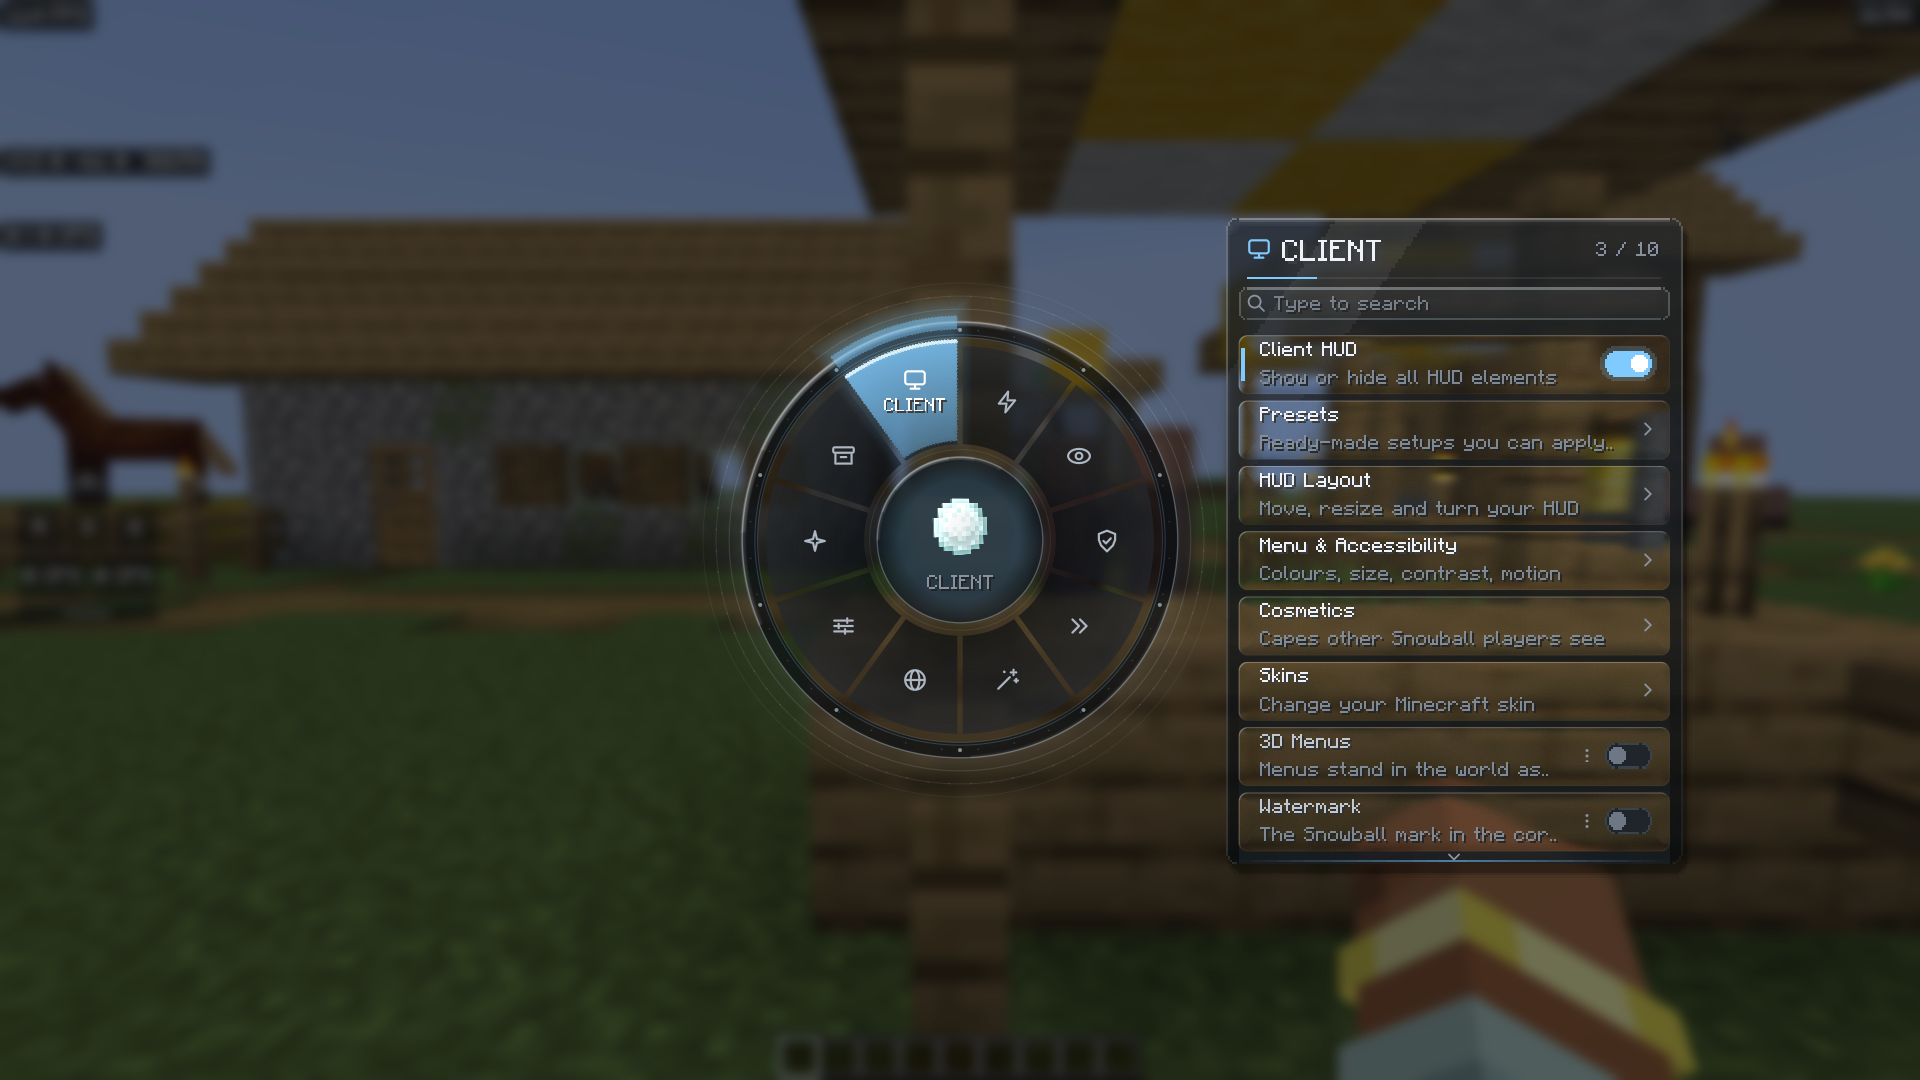
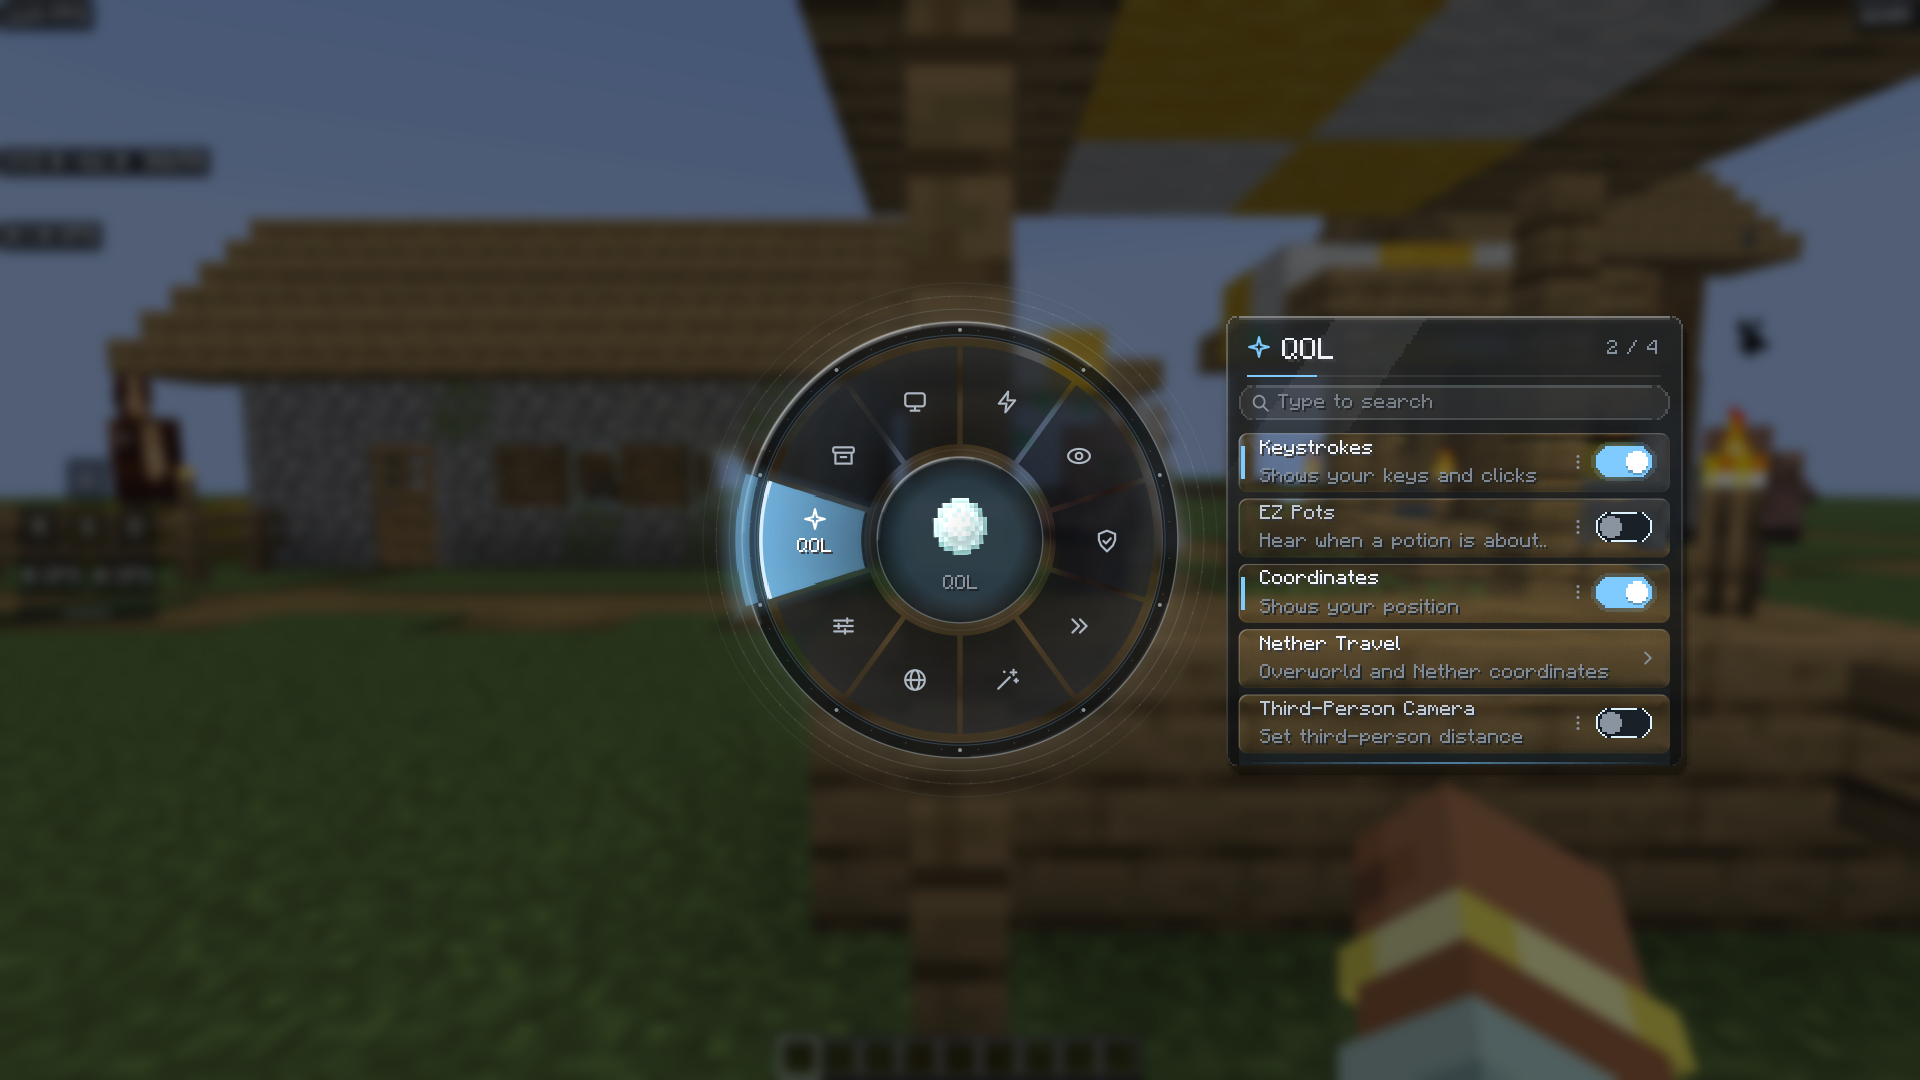
Snowglass M4: the wheel menu restyled in place
Module rows get the M3 switch on a liquid spring and the focus ring;
statuses become pills; search is a capsule under the glass looks; the
FPS BOOST selection glides between its cards; the arrows become a slim
scrollbar; the menu opens and closes on springs. The wheel, palettes
and 3D Menus are unchanged. The Snowglass game test also photographs
FPS BOOST, a search, keyboard focus, and 720p and 1440p windows.

diff --git a/client/src/main/java/dev/snowballclient/client/gui/RadialMenuView.java b/client/src/main/java/dev/snowballclient/client/gui/RadialMenuView.java
@@ -3,12 +3,15 @@ package dev.snowballclient.client.gui;
 import dev.snowballclient.client.SnowballClient;
 import dev.snowballclient.client.gui.anim.FrameClock;
 import dev.snowballclient.client.gui.anim.Smoothed;
+import dev.snowballclient.client.gui.anim.Spring;
 import dev.snowballclient.client.gui.icons.Icons;
 import dev.snowballclient.client.gui.icons.LineIcon;
 import dev.snowballclient.client.gui.radial.RadialLayout;
 import dev.snowballclient.client.gui.radial.RadialMetrics;
 import dev.snowballclient.client.gui.radial.WheelGeometry;
 import dev.snowballclient.client.gui.radial.WheelTextures;
+import dev.snowballclient.client.gui.snowglass.Controls;
+import dev.snowballclient.client.gui.snowglass.SnowglassTokens;
 import dev.snowballclient.client.gui.theme.Theme;
 import dev.snowballclient.client.hud.GuiDraw;
 import dev.snowballclient.client.hud.NotificationCenter;
@@ -70,11 +73,15 @@ public final class RadialMenuView extends View {
 	private final RadialLayout layout;
 	private final ModuleCategory[] categories = ModuleCategory.values();
 	private final FrameClock clock = new FrameClock();
-	private final Smoothed open = new Smoothed(0f);
-	private final Smoothed panel = new Smoothed(0f);
+	private final Spring open = Spring.standard(0f);
+	private final Spring panel = Spring.standard(0f);
 	private final Smoothed[] segmentHover = new Smoothed[ModuleCategory.values().length];
 	private final Smoothed[] segmentSelect = new Smoothed[ModuleCategory.values().length];
-	private final Map<Module, Smoothed> toggleAnim = new IdentityHashMap<>();
+	private final Map<Module, Spring> toggleAnim = new IdentityHashMap<>();
+	/** Where the FPS BOOST selection is, in units from the first card: it glides to the card picked. */
+	private final Spring cardX = Spring.liquid(0f);
+	private final Spring cardY = Spring.liquid(0f);
+	private boolean cardPlaced;
 	private final Map<Module, FittedRow> fitted = new IdentityHashMap<>();
 	private final String[] cardBlurbs = new String[CARDS.length];
 	private final Map<Long, Float> labelRooms = new HashMap<>();
@@ -260,7 +267,7 @@ public final class RadialMenuView extends View {
 		boolean still = theme.motion() <= 0f;
 		age = still ? 10f : age + dt * theme.motion();
 		panelAge = still ? 10f : panelAge + dt * theme.motion();
-		float o = open.update(dt, speed);
+		float o = clamp01(step(open, dt));
 		// The wheel turns into place as it opens, and back out as it closes.
 		float settle = 1f - o;
 		spin = -0.55f * settle * settle;
@@ -269,7 +276,7 @@ public final class RadialMenuView extends View {
 			host.back();
 			return;
 		}
-		float p = panel.update(dt, speed);
+		float p = clamp01(step(panel, dt));
 		if (!closing) updateHover(mouseX, mouseY);
 		for (int i = 0; i < segmentHover.length; i++) {
 			segmentHover[i].setTarget(i == hoveredSegment ? 1f : 0f);
@@ -431,6 +438,7 @@ public final class RadialMenuView extends View {
 		drawHeader(c, x, top, rows, alpha);
 		drawSearch(c, x, top + HEADER_H, alpha);
 		if (showCards()) drawCards(c, x, top + HEADER_H + SEARCH_H, alpha);
+		else cardPlaced = false;
 
 		int y0 = top + rowsOffset();
 		if (rows.isEmpty()) {
@@ -468,9 +476,7 @@ public final class RadialMenuView extends View {
 			int shift = Math.round((1f - easeOut(t)) * 12f);
 			drawRow(c, rows.get(i), i, x + ROW_INSET + shift, y0 + (i - scroll) * ROW_H, PANEL_W - ROW_INSET * 2, alpha * t);
 		}
-		int arrow = scaleAlpha(theme.mutedText(), alpha);
-		if (scroll > 0) triangle(c, x + PANEL_W / 2, y0 - 3, true, arrow);
-		if (end < rows.size()) triangle(c, x + PANEL_W / 2, y0 + visible * ROW_H - 2, false, arrow);
+		Controls.scrollbar(c, theme, x + PANEL_W - 5, y0, visible * ROW_H - 3, scroll, visible, rows.size(), false, alpha);
 	}
 
 	private void drawHeader(Canvas c, int x, int top, List<Module> rows, float alpha) {
@@ -505,13 +511,24 @@ public final class RadialMenuView extends View {
 		int bx = x + ROW_INSET;
 		int bw = PANEL_W - ROW_INSET * 2;
 		int by = y + 2;
-		int bh = 15;
 		boolean active = searching();
-		Glass.chip(c, theme, bx, by, bw, bh, 4, active ? 0.45f : 0f, alpha);
-		GuiDraw.roundedOutline(c, bx, by, bw, bh, 4, scaleAlpha(active ? theme.accent() : theme.border(), alpha));
-		magnifier(c, bx + 8, by + 7, scaleAlpha(active ? theme.accent() : theme.mutedText(), alpha));
-		int tx = bx + 16;
-		int ty = by + 4;
+		int bh;
+		int tx;
+		if (theme.glass()) {
+			// A capsule, like the settings pages' text boxes; it lights in the menu colour while searching.
+			bh = Controls.CONTROL_H;
+			GuiDraw.roundedRect(c, bx, by, bw, bh, bh / 2, scaleAlpha(Theme.withAlpha(0xFFFFFFFF, active ? 0.10f : 0.06f), alpha));
+			GuiDraw.roundedOutline(c, bx, by, bw, bh, bh / 2, scaleAlpha(active ? theme.accent() : SnowglassTokens.HAIRLINE_STRONG, alpha));
+			magnifier(c, bx + 10, by + 8, scaleAlpha(active ? theme.accent() : theme.mutedText(), alpha));
+			tx = bx + 18;
+		} else {
+			bh = 15;
+			Glass.chip(c, theme, bx, by, bw, bh, 4, active ? 0.45f : 0f, alpha);
+			GuiDraw.roundedOutline(c, bx, by, bw, bh, 4, scaleAlpha(active ? theme.accent() : theme.border(), alpha));
+			magnifier(c, bx + 8, by + 7, scaleAlpha(active ? theme.accent() : theme.mutedText(), alpha));
+			tx = bx + 16;
+		}
+		int ty = by + (bh - 7) / 2;
 		if (active) {
 			String shown = query;
 			while (shown.length() > 1 && UiText.width(c, shown, UiText.DETAIL) > bw - 26) shown = shown.substring(1);
@@ -533,15 +550,37 @@ public final class RadialMenuView extends View {
 			cardProbe = textProbe;
 			for (int i = 0; i < CARDS.length; i++) cardBlurbs[i] = UiText.fit(c, FpsBoost.blurb(CARDS[i]), UiText.DETAIL, cw - 12);
 		}
+		int picked = 0;
+		for (int i = 0; i < CARDS.length; i++) {
+			if (CARDS[i].equals(chosen)) picked = i;
+			int cx = x + ROW_INSET + (i % 2) * (cw + CARD_GAP);
+			int cy = y + 2 + (i / 2) * (CARD_H + CARD_GAP);
+			boolean hover = i == hoveredCard;
+			Glass.chip(c, theme, cx, cy, cw, CARD_H, 4, hover ? 1f : 0f, alpha);
+			GuiDraw.roundedOutline(c, cx, cy, cw, CARD_H, 4, scaleAlpha(hover ? Theme.withAlpha(theme.highlight(), 0.35f) : theme.border(), alpha));
+		}
+		// The selection glides to the card picked, stretching a little on the way, as the settings pages' choices do.
+		float tx = (picked % 2) * (cw + CARD_GAP);
+		float ty = (picked / 2) * (CARD_H + CARD_GAP);
+		if (!cardPlaced) {
+			cardX.snap(tx);
+			cardY.snap(ty);
+			cardPlaced = true;
+		}
+		cardX.setTarget(tx);
+		cardY.setTarget(ty);
+		float sx = step(cardX, lastDt);
+		float sy = step(cardY, lastDt);
+		int gw = Math.round(cw * cardX.stretch(0.12f, 400f));
+		int gh = Math.round(CARD_H * cardY.stretch(0.12f, 200f));
+		int gx = x + ROW_INSET + Math.round(sx) - (gw - cw) / 2;
+		int gy = y + 2 + Math.round(sy) - (gh - CARD_H) / 2;
+		GuiDraw.roundedRect(c, gx, gy, gw, gh, 4, scaleAlpha(Theme.withAlpha(theme.accent(), picked == hoveredCard ? 0.28f : 0.2f), alpha));
+		GuiDraw.roundedOutline(c, gx, gy, gw, gh, 4, scaleAlpha(theme.accent(), alpha));
 		for (int i = 0; i < CARDS.length; i++) {
 			int cx = x + ROW_INSET + (i % 2) * (cw + CARD_GAP);
 			int cy = y + 2 + (i / 2) * (CARD_H + CARD_GAP);
-			boolean sel = CARDS[i].equals(chosen);
-			boolean hover = i == hoveredCard;
-			int outline = sel ? theme.accent() : hover ? Theme.withAlpha(theme.highlight(), 0.35f) : theme.border();
-			if (sel) GuiDraw.roundedRect(c, cx, cy, cw, CARD_H, 4, scaleAlpha(Theme.withAlpha(theme.accent(), hover ? 0.28f : 0.2f), alpha));
-			else Glass.chip(c, theme, cx, cy, cw, CARD_H, 4, hover ? 1f : 0f, alpha);
-			GuiDraw.roundedOutline(c, cx, cy, cw, CARD_H, 4, scaleAlpha(outline, alpha));
+			boolean sel = i == picked;
 			int titleColor = sel ? theme.text() : Theme.lerpColor(theme.mutedText(), theme.text(), 0.65f);
 			UiText.draw(c, FpsBoost.label(CARDS[i]), UiText.UI, cx + 7, cy + 4, scaleAlpha(titleColor, alpha));
 			UiText.draw(c, cardBlurbs[i], UiText.DETAIL, cx + 7, cy + 17, scaleAlpha(theme.mutedText(), alpha));
@@ -557,7 +596,7 @@ public final class RadialMenuView extends View {
 		int rowH = ROW_H - 3;
 		boolean hover = index == hoveredRow;
 		boolean focus = index == focusedRow;
-		if (focus) GuiDraw.roundedOutline(c, rx, y, rw, rowH, 4, scaleAlpha(theme.accent(), alpha));
+		if (focus) Controls.focusRing(c, theme, rx, y, rw, rowH, 4, alpha);
 
 		AdvancedOptions advanced = m instanceof AdvancedOptions a ? a : null;
 		boolean active = m.isToggleable() && m.isEnabled();
@@ -570,11 +609,11 @@ public final class RadialMenuView extends View {
 			triangle(c, cursor - 3, cy - 1, advanced.expanded(), control);
 			cursor -= 12;
 		} else if (m.isToggleable()) {
-			cursor -= ToggleWidget.WIDTH;
-			Smoothed anim = toggleAnim.computeIfAbsent(m, k -> new Smoothed(k.isEnabled() ? 1f : 0f));
+			cursor -= Controls.SWITCH_W;
+			Spring anim = toggleAnim.computeIfAbsent(m, k -> Spring.liquid(k.isEnabled() ? 1f : 0f));
 			anim.setTarget(m.isEnabled() ? 1f : 0f);
-			float t = anim.update(lastDt, theme.motion() * 18f);
-			ToggleWidget.draw(c, cursor, cy - ToggleWidget.HEIGHT / 2, t, theme, alpha * (m.canToggle() ? 1f : 0.35f));
+			float t = step(anim, lastDt);
+			Controls.toggle(c, theme, cursor, cy - Controls.SWITCH_H / 2, t, anim.stretch(0.35f, 8f), m.canToggle(), alpha);
 			cursor -= 7;
 		} else if (m.hasSettings()) {
 			chevron(c, cursor - 3, cy, control);
@@ -592,10 +631,8 @@ public final class RadialMenuView extends View {
 		int nameRight = textRight;
 		String status = advanced != null ? (advanced.expanded() ? "HIDE" : "SHOW") : m.statusText();
 		if (status != null) {
-			int sw = UiText.width(c, status, UiText.DETAIL);
 			int statusColor = "RESTART".equals(status) ? theme.accent() : theme.mutedText();
-			UiText.draw(c, status, UiText.DETAIL, textRight - sw, y + 4, scaleAlpha(statusColor, alpha));
-			nameRight -= sw + 6;
+			nameRight -= statusPill(c, status, textRight, y + 2, statusColor, alpha) + 6;
 		}
 		FittedRow text = fit(c, m, status, nameRight - (rx + 10) - 4, textRight - (rx + 10) - 4);
 		int nameColor = scaleAlpha(active || !m.isToggleable() ? theme.text() : Theme.lerpColor(theme.mutedText(), theme.text(), 0.55f), alpha);
@@ -624,7 +661,26 @@ public final class RadialMenuView extends View {
 	private int settingsGlyphX(Module m) {
 		int cursor = PANEL_X + ROW_INSET + (PANEL_W - ROW_INSET * 2) - 8;
 		if (!m.isToggleable()) return cursor - 3;
-		return cursor - ToggleWidget.WIDTH - 7 - 1;
+		return cursor - Controls.SWITCH_W - 7 - 1;
+	}
+
+	/** A short status (RESTART, MISSING, the FPS preset) as a pill ending at {@code right}; returns its width. */
+	private static int statusPill(Canvas c, String status, int right, int y, int colour, float alpha) {
+		int h = 11;
+		int w = UiText.width(c, status, UiText.DETAIL) + 8;
+		int x = right - w;
+		GuiDraw.roundedRect(c, x, y, w, h, h / 2, scaleAlpha(Theme.withAlpha(colour, 0.14f), alpha));
+		GuiDraw.roundedOutline(c, x, y, w, h, h / 2, scaleAlpha(Theme.withAlpha(colour, 0.45f), alpha));
+		int ty = y + Math.round((h - UiText.lineHeight(c, UiText.DETAIL)) / 2f) + 1;
+		UiText.draw(c, status, UiText.DETAIL, x + 4, ty, scaleAlpha(colour, alpha));
+		return w;
+	}
+
+	/** Moves a spring on at the menu's animation speed; with Reduce Motion it is already where it is going. */
+	private float step(Spring s, float dt) {
+		if (theme.motion() <= 0f) s.snap(s.target());
+		else s.update(dt * Math.min(2f, theme.motion()));
+		return s.get();
 	}
 
 	private static void chevron(Canvas g, int x, int cy, int argb) {

diff --git a/client/src/gametest/java/dev/snowballclient/gametest/SnowglassGameTest.java b/client/src/gametest/java/dev/snowballclient/gametest/SnowglassGameTest.java
@@ -2,6 +2,7 @@ package dev.snowballclient.gametest;
 
 import dev.snowballclient.client.SnowballClient;
 import dev.snowballclient.client.gui.ModuleSettingsView;
+import dev.snowballclient.client.module.ModuleCategory;
 import dev.snowballclient.client.module.ModuleRegistry;
 import dev.snowballclient.client.module.client.Menu3D;
 import dev.snowballclient.client.platform.ViewScreen;
@@ -32,6 +33,7 @@ public final class SnowglassGameTest implements FabricClientGameTest {
 	private static final Logger LOG = LoggerFactory.getLogger("SnowglassGameTest");
 	private static final String GROUND = "fill -48 -61 -48 48 -61 48 ";
 	private static final List<String> HUD = List.of("fps_counter", "coordinates", "clock", "keystrokes", "cps_counter");
+	private static final int KEY_DOWN = 264;
 
 	/**
 	 * A backdrop: commands that build it, ticks for the world to settle, commands for once it has, and
@@ -65,6 +67,8 @@ public final class SnowglassGameTest implements FabricClientGameTest {
 			int before = onClient(context, mc -> mc.options.guiScale().get());
 			onClient(context, mc -> {
 				for (String id : HUD) SnowballClient.get().modules().get(id).ifPresent(m -> m.setEnabled(true));
+				// The menu test leaves Glass GUI on, which swaps the blur behind menus for clear glass.
+				SnowballClient.get().modules().get("glass_gui").ifPresent(m -> m.setEnabled(false));
 				return null;
 			});
 			setGuiScale(context, 2);
@@ -89,6 +93,7 @@ public final class SnowglassGameTest implements FabricClientGameTest {
 
 	/** The same menu in another palette, leaning with 3D Menus, and the page where both are chosen. */
 	private static void variations(ClientGameTestContext context) {
+		wheel(context);
 		onClient(context, mc -> {
 			ModuleRegistry.INTERFACE.palette.set("aurora");
 			return null;
@@ -126,6 +131,41 @@ public final class SnowglassGameTest implements FabricClientGameTest {
 		save(context, "settings_tooltip_village_gui2");
 		context.getInput().pressKey(KEY_ESCAPE);
 		context.waitForScreen(null);
+	}
+
+	/** The wheel menu's own pieces: FPS BOOST's presets, a search, the keyboard focus, and two more window sizes. */
+	private static void wheel(ClientGameTestContext context) {
+		openMenu(context);
+		ModuleCategory before = onClient(context, mc -> screen(mc).selectedCategory());
+		pick(context, ModuleCategory.FPS_BOOST);
+		save(context, "menu_village_fpsboost_gui2");
+		pick(context, before);
+		context.getInput().typeChars("zoom");
+		context.waitTicks(15);
+		save(context, "menu_village_search_gui2");
+		// Esc clears the search; Down twice moves the keyboard focus to the second row.
+		context.getInput().pressKey(KEY_ESCAPE);
+		context.waitTicks(10);
+		context.getInput().pressKey(KEY_DOWN);
+		context.getInput().pressKey(KEY_DOWN);
+		context.waitTicks(10);
+		save(context, "menu_village_focus_gui2");
+		closeMenu(context);
+		for (int[] size : new int[][]{{1280, 720}, {2560, 1440}}) {
+			context.getInput().resizeWindow(size[0], size[1]);
+			context.waitTicks(10);
+			setGuiScale(context, 0);
+			photographMenu(context, "menu_village_" + size[1] + "p_guiauto");
+		}
+		context.getInput().resizeWindow(1920, 1080);
+		context.waitTicks(10);
+		setGuiScale(context, 2);
+	}
+
+	private static void pick(ClientGameTestContext context, ModuleCategory category) {
+		clickGui(context, onClient(context, mc -> screen(mc).segmentCenter(category.ordinal())));
+		context.waitFor(mc -> screen(mc).selectedCategory() == category, 40);
+		context.waitTicks(20);
 	}
 
 	private static void photographMenu(ClientGameTestContext context, String name) {

diff --git a/docs/ui-revamp/PROGRESS.md b/docs/ui-revamp/PROGRESS.md
@@ -3,7 +3,35 @@
 Read this first in any new session, then `PLAN.md`. Branch: `ui/snowglass` (not pushed).
 The plan was approved on 2026-11-01 with the recommended answers to Q1–Q8 (PLAN.md §15).
 
-## Current state: M3 (controls) done, in the wheel menu's settings pages
+## Current state: M4 (the wheel menu restyled in place) done
+
+**Asked 2026-11-01 (user):** do M4, M5 and M6, then either pick the best-looking look for people or send screenshots of all of them so they can choose the default.
+
+### M4: what changed
+
+All in `RadialMenuView`; the wheel, its layout, the palettes and 3D Menus are as they were.
+- **Module rows:** the M3 switch (`Controls.toggle`) on a liquid spring, so the thumb stretches as it moves. The keyboard focus is the M3 focus ring.
+- **Status pills:** a status (RESTART, MISSING, the FPS preset, "18 HIDDEN", SHOW/HIDE) is a small pill in its colour instead of loose text. RESTART is in the menu colour, as before.
+- **Search:** under the glass looks it is a capsule like the settings pages' text boxes, lit in the menu colour while searching. The classic look keeps its box.
+- **FPS BOOST presets:** the four cards stay; the selection now glides to the card picked on a liquid spring, stretching on the way. A segmented control was tried on paper and dropped: at fractional menu scales "Balanced" would not fit a quarter of the panel.
+- **Scrolling:** the up/down arrows are replaced by the M3 slim scrollbar on the panel's right edge.
+- **Open and close:** the menu and the panel move on standard springs instead of exponential easing. Reduce Motion still snaps.
+- `SnowglassGameTest` also photographs FPS BOOST, a search, the keyboard focus, and the menu at 1280×720 and 2560×1440 (GUI Auto). It now switches Glass GUI off first: the menu test leaves it on, and it swaps the blur behind menus for clear glass.
+
+### M4: verified
+
+- `./gradlew build` passes: 233 unit tests per version, 0 failures. `-p legacy build` (1.8.9) passes, and `check-generated.mjs` is clean.
+- The existing `SnowballMenuGameTest` passes unchanged on 26.2 and 1.21.11: open, every category, toggle by mouse and keyboard, the change saved, Right Shift toggles, Esc closes.
+- `-Ponly=snowglass` passes on both. These screenshots were looked at:
+  - `menu_village_fpsboost_gui2`, `menu_village_search_gui2`, `menu_village_focus_gui2`
+  - the six backdrops, and `menu_village_720p_guiauto` and `menu_village_1440p_guiauto`
+  
+  The pills, capsule, focus ring, glide and scrollbar all show.
+
+### M4: not done or not verified
+
+- **Text at 720p.** At 1280×720 (GUI Auto) the row text is drawn about 20% larger than its layout (UiText snaps the font to whole pixels), so some descriptions are cut short with "..". This is how UiText already worked, not new in M4.
+- The colour picker as a popover and the `PanelView` pages are left to M6, as PLAN.md §13 has them.
 
 **Font, decided 2026-11-01 (user):** Minecraft's font is back as the default, the main menu included.
 - Inter stays as the option under Menu & Accessibility → Font. It replaced Nunito as the smooth font.
